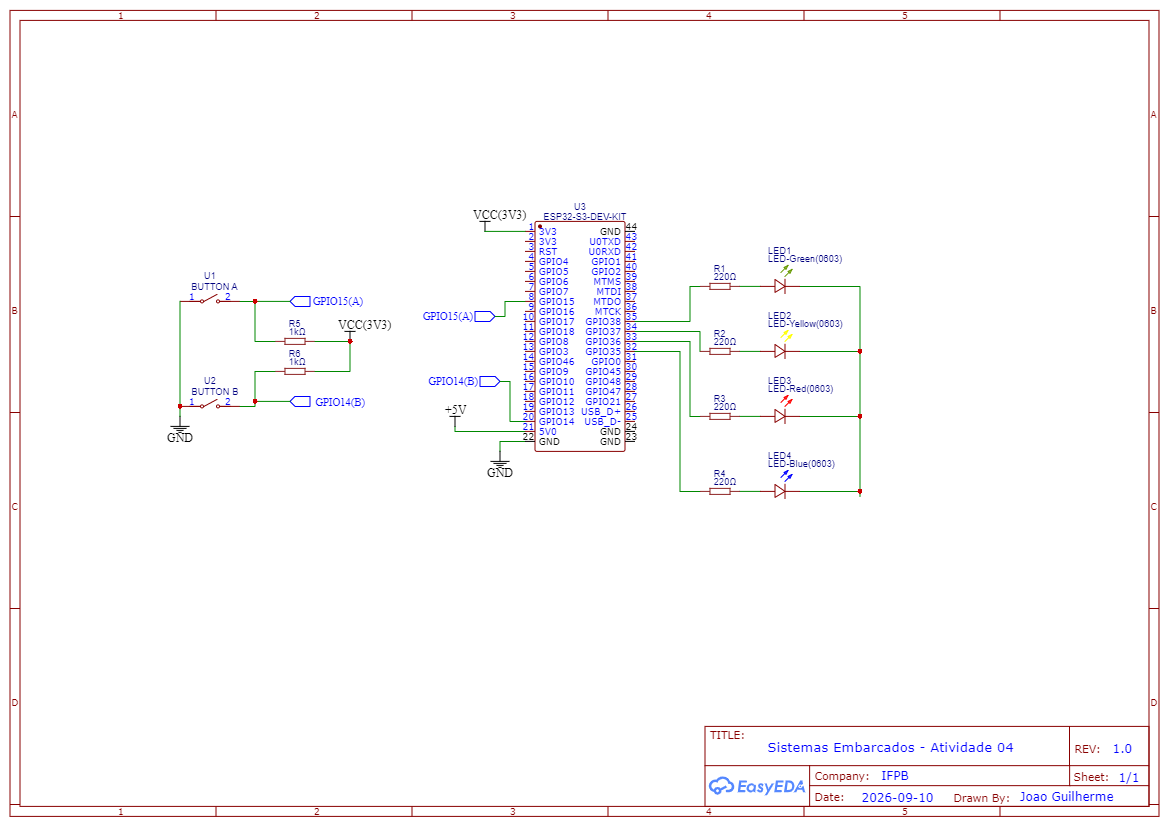
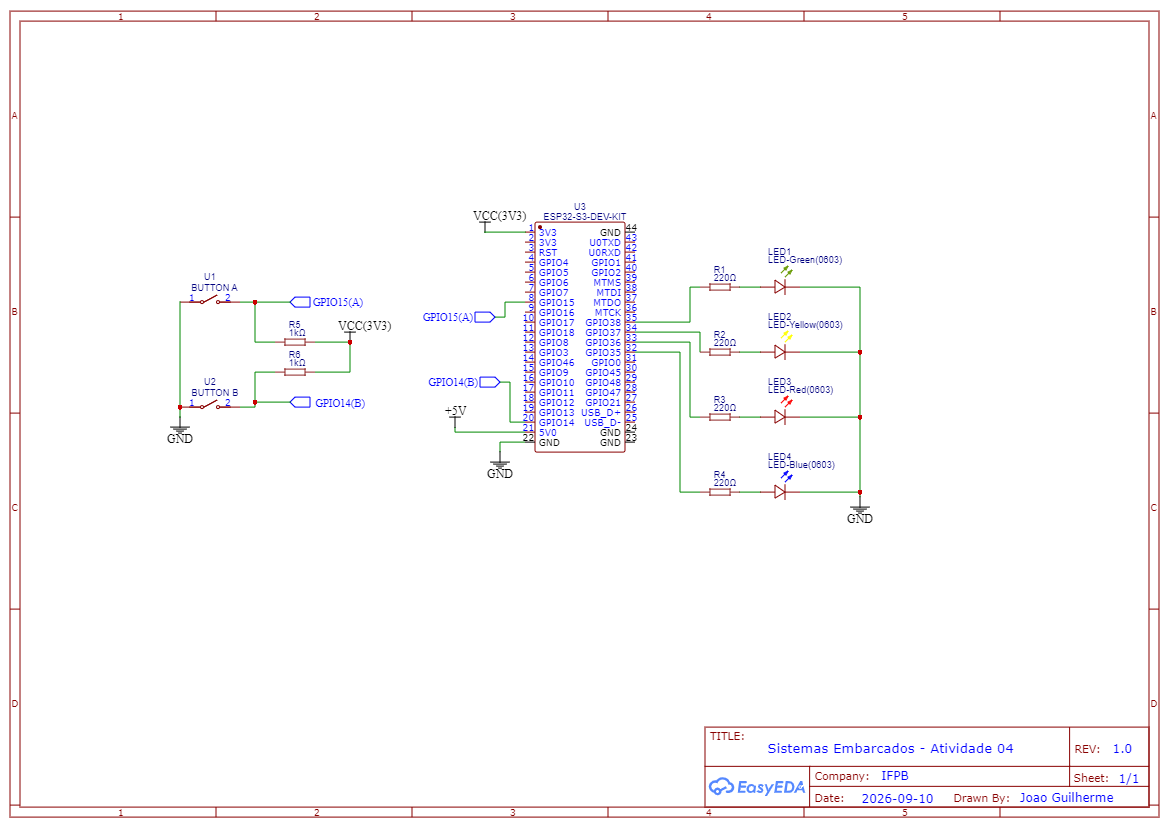
Adicionando Atividade 05

diff --git a/Atividade-05/main.c b/Atividade-05/main.c
@@ -1,0 +1,201 @@
+#include <stdio.h>
+#include "freertos/FreeRTOS.h"
+#include "freertos/task.h"
+#include "driver/gpio.h"
+#include "esp_timer.h"
+#include "driver/ledc.h"
+
+// Define GPIO pins for LEDs
+#define GREEN_LED_GPIO GPIO_NUM_38
+#define YELLOW_LED_GPIO GPIO_NUM_37
+#define RED_LED_GPIO GPIO_NUM_36
+#define BLUE_LED_GPIO GPIO_NUM_35
+
+#define BUZZER_GPIO GPIO_NUM_1
+#define WHITE_LED_GPIO GPIO_NUM_2
+
+// Define GPIO pins for pushbuttons
+#define BUTTON_A_GPIO GPIO_NUM_15
+#define BUTTON_B_GPIO GPIO_NUM_14
+
+// Define debounce time in microseconds
+#define DEBOUNCE_TIME_US 30000
+
+// Variables to hold counter and step size
+static uint8_t counter = 0;
+static uint8_t step = 1;
+
+// Variables to track button states and debounce timing
+static uint8_t stable_btn_a_state = 0;
+static uint8_t stable_btn_b_state = 0;
+static uint8_t last_reading_a = 0;
+static uint8_t last_reading_b = 0;
+static int64_t last_change_time_a = 0;
+static int64_t last_change_time_b = 0;
+
+// Configure GPIO pins as output
+void configure_leds(void)
+{
+    gpio_reset_pin(GREEN_LED_GPIO);
+    esp_rom_gpio_pad_select_gpio(GREEN_LED_GPIO);
+    gpio_set_direction(GREEN_LED_GPIO, GPIO_MODE_OUTPUT);
+
+    gpio_reset_pin(YELLOW_LED_GPIO);
+    esp_rom_gpio_pad_select_gpio(YELLOW_LED_GPIO);
+    gpio_set_direction(YELLOW_LED_GPIO, GPIO_MODE_OUTPUT);
+
+    gpio_reset_pin(RED_LED_GPIO);
+    esp_rom_gpio_pad_select_gpio(RED_LED_GPIO);
+    gpio_set_direction(RED_LED_GPIO, GPIO_MODE_OUTPUT);
+
+    gpio_reset_pin(BLUE_LED_GPIO);
+    esp_rom_gpio_pad_select_gpio(BLUE_LED_GPIO);
+    gpio_set_direction(BLUE_LED_GPIO, GPIO_MODE_OUTPUT);
+}
+
+//Configure PWM Channel
+void configure_pwm(void)
+{
+    ledc_timer_config_t ledc_timer = {
+        .speed_mode = LEDC_LOW_SPEED_MODE,
+        .timer_num = LEDC_TIMER_0,
+        .duty_resolution = LEDC_TIMER_13_BIT,
+        .freq_hz = 1000,
+        .clk_cfg = LEDC_AUTO_CLK
+    };
+    ledc_timer_config(&ledc_timer);
+
+    ledc_timer_config_t buzzer_timer = {
+        .speed_mode = LEDC_LOW_SPEED_MODE,
+        .timer_num = LEDC_TIMER_1,
+        .duty_resolution = LEDC_TIMER_13_BIT,
+        .freq_hz = 1000,
+        .clk_cfg = LEDC_AUTO_CLK
+    };
+    ledc_timer_config(&buzzer_timer);
+
+    ledc_channel_config_t channel_0 = {
+        .gpio_num = BUZZER_GPIO,
+        .speed_mode = LEDC_LOW_SPEED_MODE,
+        .channel = LEDC_CHANNEL_0,
+        .intr_type = LEDC_INTR_DISABLE,
+        .timer_sel = LEDC_TIMER_0,
+        .duty = 0,
+        .hpoint = 0
+    };
+    ledc_channel_config(&channel_0);
+
+    ledc_channel_config_t channel_1 = {
+        .gpio_num = WHITE_LED_GPIO,
+        .speed_mode = LEDC_LOW_SPEED_MODE,
+        .channel = LEDC_CHANNEL_1,
+        .intr_type = LEDC_INTR_DISABLE,
+        .timer_sel = LEDC_TIMER_1,
+        .duty = 0,
+        .hpoint = 0
+    };
+    ledc_channel_config(&channel_1);
+}
+
+// Configure GPIO pins as input
+void configure_buttons(void)
+{
+    gpio_reset_pin(BUTTON_A_GPIO);
+    esp_rom_gpio_pad_select_gpio(BUTTON_A_GPIO);
+    gpio_set_direction(BUTTON_A_GPIO, GPIO_MODE_INPUT);
+
+    gpio_reset_pin(BUTTON_B_GPIO);
+    esp_rom_gpio_pad_select_gpio(BUTTON_B_GPIO);
+    gpio_set_direction(BUTTON_B_GPIO, GPIO_MODE_INPUT);
+}
+
+// Function to update LED states according to counter value
+void update_leds(uint8_t val)
+{
+    gpio_set_level(GREEN_LED_GPIO,  (val >> 3) & 0x01);
+    gpio_set_level(YELLOW_LED_GPIO, (val >> 2) & 0x01);
+    gpio_set_level(RED_LED_GPIO,    (val >> 1) & 0x01);
+    gpio_set_level(BLUE_LED_GPIO,   (val >> 0) & 0x01);
+
+    // Update Buzzer
+    uint32_t duty = 4095;
+    uint32_t frequency = 500 + (val * 250);
+
+    ledc_set_freq(LEDC_LOW_SPEED_MODE, LEDC_TIMER_0, frequency);
+    ledc_set_duty(LEDC_LOW_SPEED_MODE, LEDC_CHANNEL_0, duty);
+    ledc_update_duty(LEDC_LOW_SPEED_MODE, LEDC_CHANNEL_0);
+
+    // Update White LED
+    uint32_t white_duty = (val * 8191) / 15;
+
+    ledc_set_duty(LEDC_LOW_SPEED_MODE, LEDC_CHANNEL_1, white_duty);
+    ledc_update_duty(LEDC_LOW_SPEED_MODE, LEDC_CHANNEL_1);
+}
+// Function to read and process pushbutton inputs with software debouncing
+void process_buttons(void)
+{
+    int64_t now = esp_timer_get_time();
+
+    // Process Button A (Increments the counter)
+    uint8_t reading_a = gpio_get_level(BUTTON_A_GPIO);
+    if (reading_a != last_reading_a) {
+        last_change_time_a = now;
+        last_reading_a = reading_a;
+    }
+
+    if ((now - last_change_time_a) > DEBOUNCE_TIME_US) {
+        if (reading_a != stable_btn_a_state) {
+            stable_btn_a_state = reading_a;
+            
+            if (stable_btn_a_state == 1) {
+                counter = (counter + step) % 16;
+                update_leds(counter);
+            }
+        }
+    }
+
+    // Process Button B (Decrement the counter)
+    uint8_t reading_b = gpio_get_level(BUTTON_B_GPIO);
+    if (reading_b != last_reading_b) {
+        last_change_time_b = now;
+        last_reading_b = reading_b;
+    }
+
+    if ((now - last_change_time_b) > DEBOUNCE_TIME_US) {
+        if (reading_b != stable_btn_b_state) {
+            stable_btn_b_state = reading_b;
+
+            if (stable_btn_b_state == 1) {
+                if (counter >= step)
+                    counter -= step;
+                else
+                    counter = 15;
+                update_leds(counter);
+            }
+        }
+    }
+}
+
+void app_main(void) 
+{
+    configure_leds();
+    configure_buttons();
+    configure_pwm();
+    update_leds(counter);
+
+    // Read initial states to prevent false trigger at startup
+    last_reading_a = gpio_get_level(BUTTON_A_GPIO);
+    stable_btn_a_state = last_reading_a;
+    
+    last_reading_b = gpio_get_level(BUTTON_B_GPIO);
+    stable_btn_b_state = last_reading_b;
+
+    int64_t start_time = esp_timer_get_time();
+    last_change_time_a = start_time;
+    last_change_time_b = start_time;
+
+    while (1) {
+        process_buttons();
+        vTaskDelay(pdMS_TO_TICKS(10));
+    }
+}

diff --git a/Atividade-05/README.md b/Atividade-05/README.md
@@ -1,0 +1,21 @@
+# Atividade 05
+
+## Diagrama de Blocos
+
+Ferramenta utilizada: [Draw.io](https://app.diagrams.net/)
+
+![Diagrama de Blocos](Diagrama_de_Blocos.png)
+
+## Esquemático
+
+Ferramenta utilizada: [EasyEDA](https://easyeda.com/)
+
+![Esquemático](Esquematico.png)
+
+## Simulação e Código
+
+[Link para Simulação com Código no WOLKI](https://wokwi.com/projects/475419474572370945)
+
+Ferramenta Utilizada: [WOLKI](https://wokwi.com/)
+
+![Simulação](Simulation.png)
